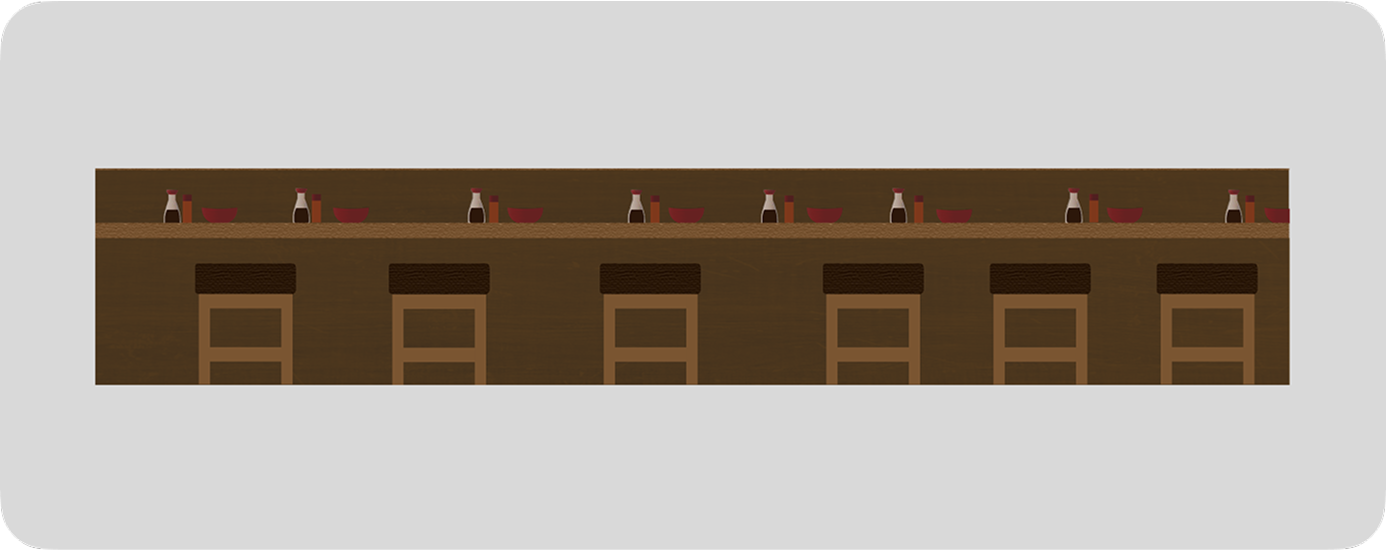
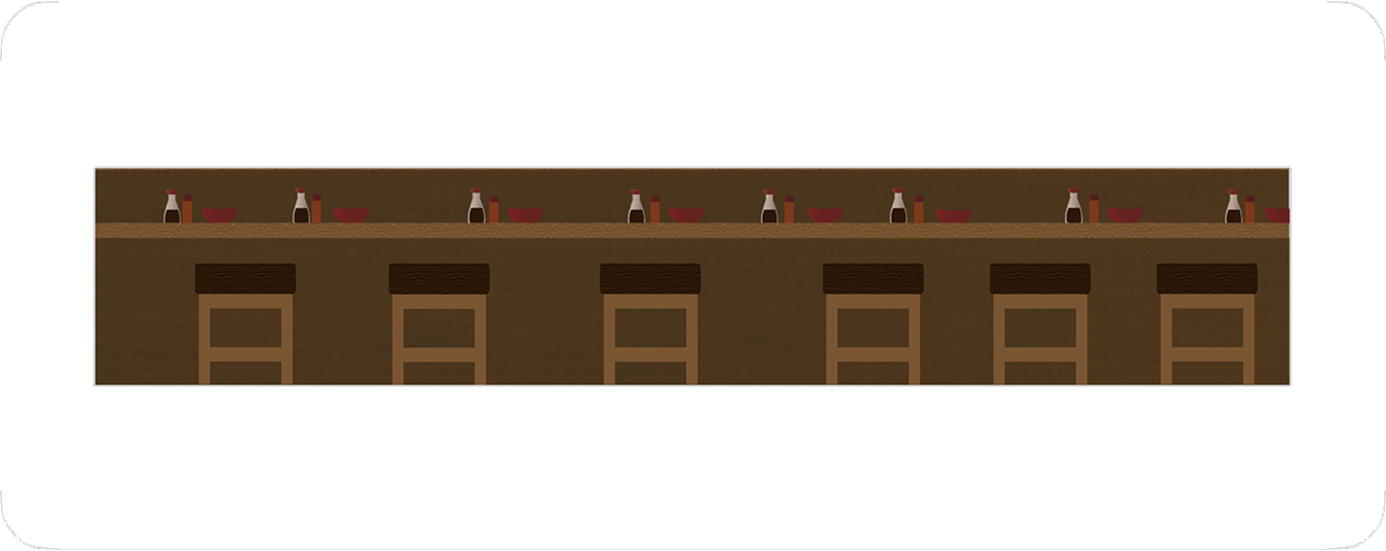
瑠玖のアプローチ01を Figma の新しいレイアウトに合わせて更新
Claude-Session: https://claude.ai/code/session_015LFPPDA7cRzc4mn19KzcAD

diff --git a/src/works/ryuku.html b/src/works/ryuku.html
@@ -94,7 +94,7 @@
                     <ul>
                       <li>PC表示のみで、スマートフォン版は未対応</li>
                       <li>予約の入口がなく、「いいな」と思ったタイミングで予約ができない。</li>
-                      <li>電話予約のしにくい</li>
+                      <li>電話予約のしにくさ</li>
                     </ul>
                   </div>
                 </div>
@@ -103,8 +103,7 @@
             </li>
             <li class="p-work-task__item">
               <div class="p-work-task__content">
-                <!-- ※ Figma では番号が「03」（課題は2つ） -->
-                <span class="c-number-badge">03</span>
+                <span class="c-number-badge">02</span>
                 <div class="p-work-task__text">
                   <h3 class="p-work-task__title">瑠玖＆魚平らしさが<br>伝わっていない</h3>
                   <p class="p-work-task__desc">カウンター中心で一人でも入りやすいこと、ホッケフライやニシンの姿盛りといった名物、あら汁飲み放題、店員さんとの距離の近さ。こうした実際に足を運んだ人だけが知っている魅力が、サイトからはほとんど伝わっていないと考えました。現状、お店の評判は口コミに頼っている状態で、公式サイトからのブランド発信ができていません。</p>
@@ -155,15 +154,19 @@
             <span class="c-heading-block__en">Approach</span>
           </h2>
           <ol class="p-work-approach p-work-approach--sp-gap-120">
-            <li class="p-work-approach__item p-work-approach__item--gap-24">
-              <div class="p-work-approach__heading">
-                <span class="c-number-badge">01</span>
-                <h3 class="c-item-heading"><span class="c-item-heading__sub">ルックの世界観の</span>ビジュアル化</h3>
+            <li class="p-work-approach__item">
+              <div class="p-work-approach__content">
+                <div class="p-work-approach__heading">
+                  <span class="c-number-badge">01</span>
+                  <h3 class="c-item-heading"><span class="c-item-heading__sub">ルックの世界観の</span>ビジュアル化</h3>
+                </div>
+                <p class="p-work-text p-work-text--black">店内の雰囲気をより感じていただけるよう、当店の特徴的な要素をビジュアルに落とし込みました。</p>
               </div>
-              <div class="p-work-example-list">
+              <!-- 事例はグレーのパネルにまとめる（Figma 5261:3590） -->
+              <div class="p-work-example-list p-work-example-list--panel">
                 <div class="p-work-example">
                   <div class="p-work-example__content">
-                    <h4 class="p-work-example__title">入店前の雰囲気をFVで表現</h4>
+                    <h4 class="p-work-example__title">入店前の雰囲気を暖簾で表現</h4>
                     <p class="p-work-example__text">店内に入る前の店中の賑やかさを表現するために、ヘッダーを暖簾にしました。</p>
                   </div>
                   <div class="p-work-compare">

diff --git a/src/scss/project/_work.scss b/src/scss/project/_work.scss
@@ -954,3 +954,26 @@
     @include sp { font-size: 14px; }
   }
 }
+
+// 瑠玖 アプローチ01：事例（実際の写真｜イラスト）をグレーのパネルにまとめた版（Figma 5261:3590）
+.p-work-example-list--panel {
+  padding: 37px;
+  border-radius: var(--radius-l);
+  background: var(--color-divider);
+
+  @include sp { gap: 48px; padding: 24px 20px; }
+
+  .p-work-example__title { font-size: 22px; color: var(--color-text); }
+  .p-work-example__text  { font-size: 14px; }
+  .p-work-compare        { gap: 44px; }
+  .p-work-compare__label { font-size: 14px; }
+  // イラストは白い枠に収める
+  .p-work-compare__item:last-child .p-work-compare__image { background: #fff; }
+
+  @include sp {
+    .p-work-example__title { font-size: 16px; }
+    .p-work-example__text,
+    .p-work-compare__label { font-size: 12px; }
+    .p-work-compare        { gap: 16px; }
+  }
+}
